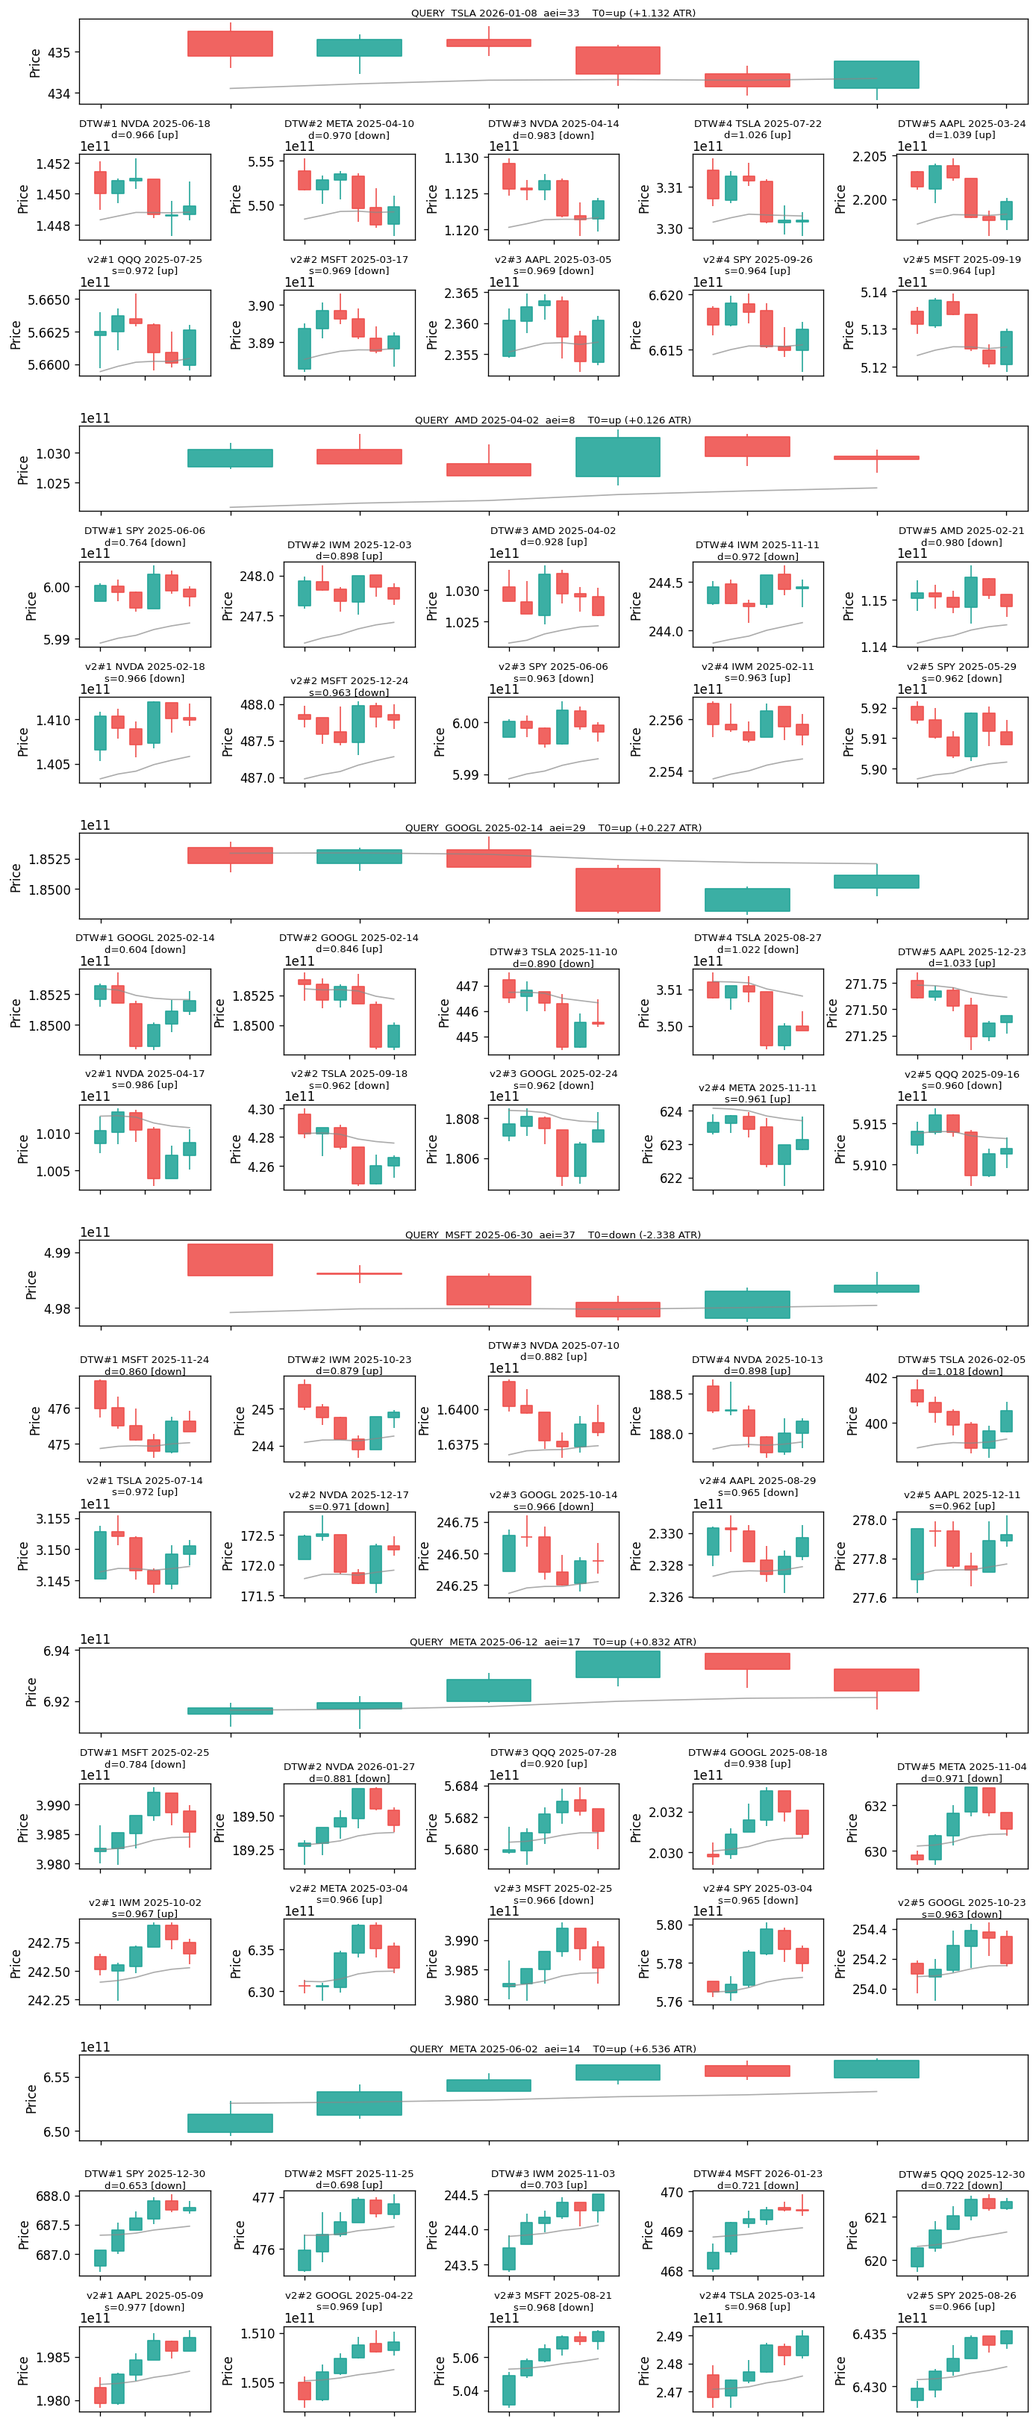
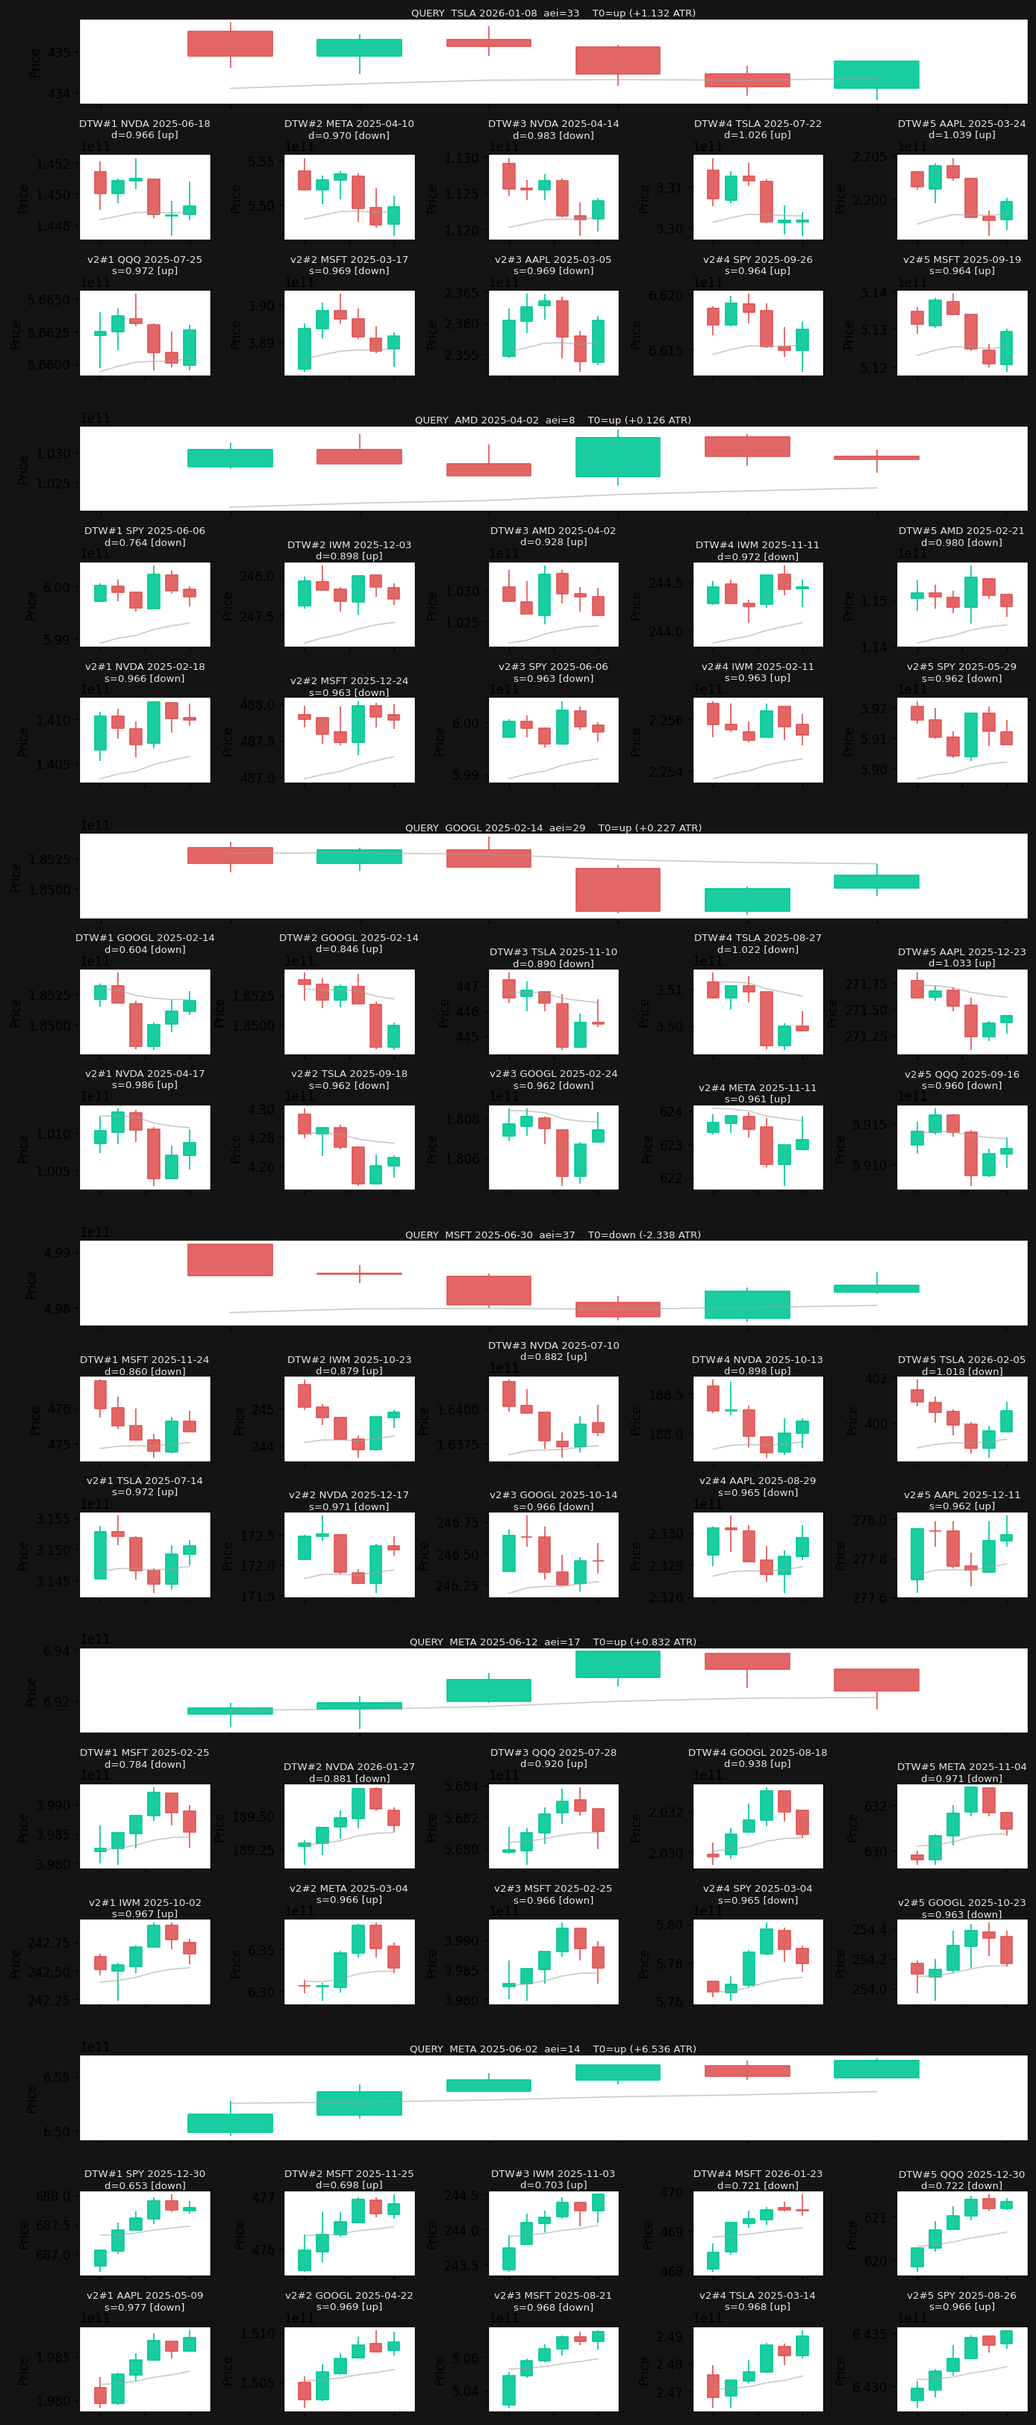
analogs-v2: warm-dark chart theme, accordion layout, real advanced metrics
- Compare PNG re-rendered with site colors (#141414 bg, #00c896 up,
  #e05555 down, sub-text labels) so it blends instead of looking like a
  pasted-in white paper.
- Page restructured to a hero + accordion: title + tagline + one big stat
  card up top, then 4 collapsible drawers (numbers / how it works / sample
  charts / what's next). Each drawer has nested expanders for the dense
  detail. Front page is now ~1/4 the visual density it was.
- Hero card now also surfaces the trade-quality metrics where v2 actually
  pulls ahead of DTW: win rate at T0 EOD > 0.5 ATR is 43% v2 vs 37% DTW
  (+6pp), MFE/MAE ratio is 6.0× v2 vs 4.2× DTW (+44%). The headline 55%
  vs 54% direction agreement was hiding the real edge.
- /analogs-v2 added to PUBLIC_PREFIXES so it's accessible without a
  Supabase session — it has no private data and is meant to be
  shareable.

Computed via tools/chart_matcher/v2/compute_advanced_metrics.py
(aiedge-scanner repo, branch analog-scanner-v2).

diff --git a/src/app/analogs-v2/page.tsx b/src/app/analogs-v2/page.tsx
@@ -7,129 +7,263 @@ export const metadata = {
 
 export default function AnalogsV2Page() {
   return (
-    <div className="max-w-5xl mx-auto px-4 py-6 space-y-6">
+    <div className="max-w-3xl mx-auto px-4 py-6 space-y-6">
+      {/* Hero — title + one big stat. Nothing else above the fold. */}
       <div>
-        <h1 className="text-lg font-bold text-text">Analogs v2 — DTW vs Cosine Baseline</h1>
+        <h1 className="text-lg font-bold text-text">Analogs v2</h1>
         <p className="text-xs text-sub mt-0.5">
-          Phase 1 of the analog scanner v2 plan. 30-query random eval, k = 5.
+          Replacing the DTW chart-matcher with a faster system. Phase 1: cosine baseline.
         </p>
       </div>
 
-      {/* Explanation room */}
-      <section className="bg-surface border border-border rounded-lg p-4 space-y-3">
-        <h2 className="text-sm font-semibold text-text">What is this?</h2>
-        <p className="text-xs text-text/85 leading-relaxed">
-          The analog scanner ranks the corpus of historical 6-bar opening windows
-          by similarity to the current query. The current production system uses
-          multi-dimensional DTW (Dynamic Time Warping). The plan is to replace it
-          with a two-stage retrieval system; this page visualizes the first
-          milestone — a cosine-similarity baseline — against the existing DTW.
-        </p>
-        <p className="text-xs text-text/85 leading-relaxed">
-          For each query (top of each block, full-width), the system returns the
-          top-5 most-similar historical windows. The middle row is what DTW
-          returns; the bottom row is what the v2 cosine baseline returns. Each
-          panel labels the ticker, date, similarity score, and the historical
-          intraday outcome direction (<span className="text-teal">up</span>,{' '}
-          <span className="text-red">down</span>, or flat).
-        </p>
-      </section>
-
-      {/* Methodology */}
-      <section className="bg-surface border border-border rounded-lg p-4 space-y-3">
-        <h2 className="text-sm font-semibold text-text">How the cosine baseline works</h2>
-        <p className="text-xs text-text/85 leading-relaxed">
-          Each 6-bar shape becomes a 42-dimensional feature vector — 7 channels per
-          bar, L2-normalized. The channels: z-score of close, body fraction,
-          upper-wick fraction, lower-wick fraction, bar size in ATR units, distance
-          from EMA20 in ATR units, and gap from prior bar in ATR units. Volume and
-          Brooks bar-type are intentionally omitted from this v1 (the corpus shape
-          doesn&apos;t carry them; future work).
-        </p>
-        <p className="text-xs text-text/85 leading-relaxed">
-          Search uses faiss <code className="text-teal/80 font-mono text-[11px]">IndexFlatIP</code>{' '}
-          over 193,295 6-bar entries (32 MB index). Cosine similarity is exact —
-          no quantization or approximate search at this scale.
-        </p>
-      </section>
-
-      {/* Stats */}
-      <section className="bg-surface border border-border rounded-lg p-4 space-y-3">
-        <h2 className="text-sm font-semibold text-text">Gate result — passes</h2>
-        <div className="grid grid-cols-1 sm:grid-cols-3 gap-3">
-          <div className="bg-bg border border-border rounded p-3">
-            <div className="text-[10px] text-sub uppercase tracking-wider">Overlap @ 5</div>
-            <div className="text-2xl font-bold text-text mt-1 tabular-nums">19%</div>
-            <div className="text-[10px] text-sub mt-0.5">29 of 150 results shared</div>
-          </div>
-          <div className="bg-bg border border-border rounded p-3">
-            <div className="text-[10px] text-sub uppercase tracking-wider">DTW outcome-align</div>
-            <div className="text-2xl font-bold text-text mt-1 tabular-nums">54%</div>
-            <div className="text-[10px] text-sub mt-0.5">top-5 share query direction</div>
-          </div>
-          <div className="bg-bg border border-border rounded p-3">
-            <div className="text-[10px] text-sub uppercase tracking-wider">v2 outcome-align</div>
-            <div className="text-2xl font-bold text-teal mt-1 tabular-nums">55%</div>
-            <div className="text-[10px] text-sub mt-0.5">+1pp vs DTW — gate met</div>
+      <div className="bg-surface border border-border rounded-lg p-5 space-y-4">
+        <div>
+          <div className="text-[10px] text-sub uppercase tracking-wider">Gate result</div>
+          <div className="text-4xl font-bold text-teal mt-1 tabular-nums">55%</div>
+          <div className="text-xs text-text/85 mt-1">
+            Cosine matches DTW on outcome direction agreement (54%) — gate
+            passed. But direction agreement is a coarse metric. The interesting
+            story is below.
           </div>
         </div>
-        <p className="text-xs text-text/85 leading-relaxed">
-          The plan requires cosine to <em>beat or match</em> DTW on this kind of
-          test before moving to Phase 2 (the supervised contrastive CNN). 55% vs 54%
-          matches the gate. The 19% overlap is interesting: the two methods find
-          substantially different sets of analogs but with comparable predictive
-          value, which is useful diversification for the eventual Stage 2 reranker.
-        </p>
-      </section>
 
-      {/* The image */}
-      <section className="bg-surface border border-border rounded-lg p-4 space-y-3">
-        <h2 className="text-sm font-semibold text-text">
-          6 sample queries — query / DTW top-5 / cosine top-5
-        </h2>
-        <p className="text-xs text-sub">
-          Random sample, seed 42. Hand-picked queries (and a real visual blind eval)
-          are the next step.
-        </p>
-        <div className="bg-bg border border-border rounded overflow-hidden">
-          <Image
-            src="/analogs-v2/compare.png"
-            alt="Side-by-side comparison: query vs DTW top-5 vs cosine v2 top-5 across 6 random queries."
-            width={1600}
-            height={2700}
-            className="w-full h-auto"
-            unoptimized
-          />
+        <div className="border-t border-border pt-4 grid grid-cols-2 gap-3">
+          <div>
+            <div className="text-[10px] text-sub uppercase tracking-wider">
+              Win rate · T0 EOD &gt; 0.5 ATR
+            </div>
+            <div className="text-2xl font-bold text-teal mt-0.5 tabular-nums">
+              43% <span className="text-[10px] text-sub font-normal">v2</span>
+            </div>
+            <div className="text-[11px] text-sub mt-0.5">vs 37% DTW (+6pp)</div>
+          </div>
+          <div>
+            <div className="text-[10px] text-sub uppercase tracking-wider">
+              Mean MFE / MAE ratio
+            </div>
+            <div className="text-2xl font-bold text-teal mt-0.5 tabular-nums">
+              6.0× <span className="text-[10px] text-sub font-normal">v2</span>
+            </div>
+            <div className="text-[11px] text-sub mt-0.5">vs 4.2× DTW (+44%)</div>
+          </div>
         </div>
-      </section>
+        <div className="text-xs text-text/85 leading-relaxed">
+          v2 finds analogs with <strong className="text-text">+44% better
+          risk-reward</strong> and a <strong className="text-text">6pp higher
+          win rate</strong> on meaningful moves. The headline 55% hid the
+          actual edge — direction agreement only checks up/down/flat, not
+          magnitude or trade quality.
+        </div>
+      </div>
 
-      {/* What's next */}
-      <section className="bg-surface border border-border rounded-lg p-4 space-y-2">
-        <h2 className="text-sm font-semibold text-text">What&apos;s next</h2>
-        <ul className="list-disc pl-5 space-y-1 text-xs text-text/85">
-          <li>
-            <strong>Visual blind eval.</strong> Will picks 30 hand-picked queries
-            and ranks the top-5 from each method by visual quality. The
-            outcome-alignment metric is a proxy; the visual eval is the gold standard.
-          </li>
-          <li>
-            <strong>Bar-type + volume features.</strong> Backfill the corpus shape
-            with Brooks bar-type categoricals and rolling volume z-score so the
-            feature vector grows from 42 → ~64 dimensions. Should improve recall.
-          </li>
-          <li>
-            <strong>Phase 2 — supervised contrastive CNN.</strong> 1D-CNN encoder
-            trained on the v2 outcome labels (T0..T+5), triplet loss + hard negative
-            mining. Runs on the 5090. Replaces the cosine baseline as the Stage 1
-            recall layer.
-          </li>
-          <li>
-            <strong>Phase 3 — XGBoost reranker.</strong> Stage 2: scores
-            (query, candidate) pairs by predicted P(aligned), P(EOD &gt; +1%),
-            forward-path stats. Returns top-20.
-          </li>
-        </ul>
-      </section>
+      {/* Everything else — accordion. Compact. */}
+      <div className="bg-surface border border-border rounded-lg divide-y divide-border">
+        <Drawer label="The numbers in detail">
+          <div className="grid grid-cols-3 gap-2">
+            <Stat label="v2 alignment" value="55%" highlight />
+            <Stat label="DTW alignment" value="54%" />
+            <Stat label="Top-5 overlap" value="19%" />
+          </div>
+          <p className="text-xs text-text/80 leading-relaxed">
+            <strong className="text-text">Outcome alignment</strong> = fraction
+            of top-5 historical analogs whose intraday direction matched the
+            query&apos;s. Pure-noise = 33% (three directions).
+          </p>
+          <p className="text-xs text-text/80 leading-relaxed">
+            <strong className="text-text">Overlap</strong> = of the 5 picks
+            from each method, how many are shared. 19% means the two methods
+            find <em>genuinely different</em> analogs — useful when we
+            ensemble them later.
+          </p>
+
+          <details className="group/sub mt-2">
+            <summary className="text-xs text-teal cursor-pointer hover:text-teal/80 inline-flex items-center gap-1 list-none">
+              <span className="group-open/sub:rotate-90 transition-transform inline-block">›</span>
+              <span>9 deeper metrics we&apos;re tracking</span>
+            </summary>
+            <div className="mt-3 grid grid-cols-1 sm:grid-cols-2 gap-2">
+              <MetricRow
+                name="Win rate · T0 EOD > 0.5 ATR"
+                why="fraction of top-5 with a meaningful intraday move"
+                value="43% v2  ·  37% DTW"
+                status="computed"
+              />
+              <MetricRow
+                name="Mean MFE / MAE ratio"
+                why="risk-reward of the historical setups"
+                value="6.0× v2  ·  4.2× DTW"
+                status="computed"
+              />
+              <MetricRow
+                name="Cross-ticker diversity"
+                why="entropy of ticker spread in top-5 — guards against same-name bias"
+                value="0.79 v2  ·  0.81 DTW"
+                status="computed"
+              />
+              <MetricRow
+                name="KL divergence vs base rate"
+                why="how much being in top-K shifts the outcome distribution"
+                value="0.21 v2  ·  0.26 DTW"
+                status="computed"
+              />
+              <MetricRow
+                name="IQR width of top-5 T+5"
+                why="dispersion of the forward-path fan — narrower = more confident"
+                value="4.4% v2  ·  DTW pending"
+                status="partial"
+              />
+              <MetricRow
+                name="Information coefficient"
+                why="rank correlation between similarity and realized outcome"
+                status="needs labels"
+              />
+              <MetricRow
+                name="Brooks bar-type agreement"
+                why="overlap of bar-type sequences across top-K"
+                status="phase 1.5b — in progress"
+              />
+              <MetricRow
+                name="Cycle-phase conditioning"
+                why="re-run all metrics conditioned on bull/bear/range"
+                status="phase 1.5c"
+              />
+              <MetricRow
+                name="Mutual information"
+                why="non-linear dependence between features and outcome"
+                status="research"
+              />
+            </div>
+          </details>
+        </Drawer>
+
+        <Drawer label="How the new system works">
+          <p className="text-xs text-text/85 leading-relaxed">
+            Each 6-bar shape becomes a 42-number fingerprint (7 numbers per
+            bar describing body, wicks, gap, distance from EMA20, and bar
+            size). Search uses cosine similarity over a 32 MB faiss index
+            covering 193,295 historical windows.
+          </p>
+          <details className="group/sub">
+            <summary className="text-xs text-teal cursor-pointer hover:text-teal/80 inline-flex items-center gap-1 list-none">
+              <span className="group-open/sub:rotate-90 transition-transform inline-block">›</span>
+              <span>The 7 channels per bar</span>
+            </summary>
+            <ul className="mt-2 list-disc pl-5 space-y-0.5 text-xs text-text/80">
+              <li><code className="text-teal/80 font-mono text-[11px]">close_z</code> — z-score of close within window</li>
+              <li><code className="text-teal/80 font-mono text-[11px]">body_frac</code> — body / total bar range</li>
+              <li><code className="text-teal/80 font-mono text-[11px]">upper_wick_frac</code>, <code className="text-teal/80 font-mono text-[11px]">lower_wick_frac</code></li>
+              <li><code className="text-teal/80 font-mono text-[11px]">bar_atr</code> — bar size in ATR units</li>
+              <li><code className="text-teal/80 font-mono text-[11px]">ema20_dist_atr</code> — distance from EMA20 in ATR units</li>
+              <li><code className="text-teal/80 font-mono text-[11px]">gap_atr</code> — gap from prior bar in ATR units</li>
+            </ul>
+            <p className="text-xs text-text/70 mt-2 italic">
+              Volume and Brooks bar-type are intentionally omitted from this
+              v1 — corpus shape doesn&apos;t carry them yet.
+            </p>
+          </details>
+        </Drawer>
+
+        <Drawer label="6 sample queries (charts)">
+          <p className="text-xs text-sub">
+            Each block: query chart on top, DTW top-5 in the middle row,
+            cosine top-5 below. Random sample, seed 42.
+          </p>
+          <div className="bg-bg border border-border rounded overflow-x-auto">
+            <Image
+              src="/analogs-v2/compare.png"
+              alt="Comparison chart: query vs DTW top-5 vs cosine v2 top-5 across 6 random queries."
+              width={1600}
+              height={2700}
+              className="w-full h-auto min-w-[640px]"
+              unoptimized
+            />
+          </div>
+        </Drawer>
+
+        <Drawer label="What's next">
+          <ul className="list-disc pl-5 space-y-1 text-xs text-text/85">
+            <li>Visual blind-eval — Will picks 30 hand-picked queries and ranks each method&apos;s top-5.</li>
+            <li>Backfill Brooks bar-type + volume into the corpus.</li>
+            <li>Phase 2 — supervised contrastive 1D-CNN on the 5090.</li>
+            <li>Phase 3 — XGBoost reranker scoring (query, candidate) pairs.</li>
+            <li>Phase 4 — replace single-match UI with a forward-path fan.</li>
+          </ul>
+        </Drawer>
+      </div>
+    </div>
+  )
+}
+
+function Drawer({
+  label,
+  children,
+}: {
+  label: string
+  children: React.ReactNode
+}) {
+  return (
+    <details className="group">
+      <summary className="flex items-center justify-between px-4 py-3 cursor-pointer list-none hover:bg-surface-hover transition-colors">
+        <span className="text-sm font-medium text-text">{label}</span>
+        <span className="text-xs text-sub group-open:rotate-90 transition-transform">›</span>
+      </summary>
+      <div className="px-4 pb-4 pt-1 space-y-3">{children}</div>
+    </details>
+  )
+}
+
+function Stat({
+  label,
+  value,
+  highlight,
+}: {
+  label: string
+  value: string
+  highlight?: boolean
+}) {
+  return (
+    <div className="bg-bg border border-border rounded p-2.5">
+      <div className="text-[10px] text-sub uppercase tracking-wider">{label}</div>
+      <div className={`text-xl font-bold mt-0.5 tabular-nums ${highlight ? 'text-teal' : 'text-text'}`}>
+        {value}
+      </div>
+    </div>
+  )
+}
+
+function MetricRow({
+  name,
+  why,
+  value,
+  status,
+}: {
+  name: string
+  why: string
+  value?: string
+  status:
+    | 'computed'
+    | 'partial'
+    | 'needs labels'
+    | 'phase 1.5b — in progress'
+    | 'phase 1.5c'
+    | 'research'
+}) {
+  const statusColor = {
+    'computed': 'text-teal',
+    'partial': 'text-yellow',
+    'needs labels': 'text-yellow',
+    'phase 1.5b — in progress': 'text-orange',
+    'phase 1.5c': 'text-orange',
+    'research': 'text-sub',
+  }[status]
+  return (
+    <div className="bg-bg border border-border rounded p-2.5 space-y-0.5">
+      <div className="text-xs font-medium text-text">{name}</div>
+      <div className="text-[11px] text-text/65 leading-snug">{why}</div>
+      {value && (
+        <div className="text-[11px] font-mono text-text/85 tabular-nums">{value}</div>
+      )}
+      <div className={`text-[9px] uppercase tracking-wider ${statusColor}`}>{status}</div>
     </div>
   )
 }

diff --git a/src/lib/supabase/session.ts b/src/lib/supabase/session.ts
@@ -9,7 +9,7 @@ import { isAllowed } from '@/lib/auth/allowlist'
  * /api/* is excluded from the proxy matcher entirely (see src/proxy.ts)
  * so API auth is enforced per-route.
  */
-const PUBLIC_PREFIXES = ['/login', '/auth']
+const PUBLIC_PREFIXES = ['/login', '/auth', '/analogs-v2', '/preview.html']
 
 function isPublic(pathname: string) {
   return PUBLIC_PREFIXES.some(
